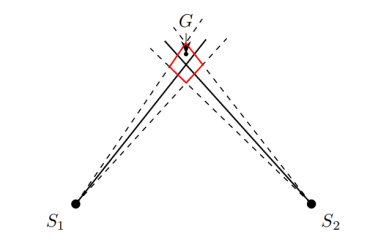
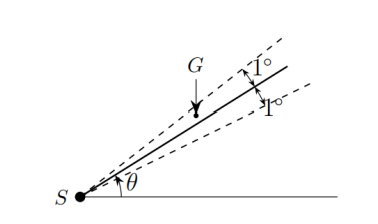
\section{问题重述}

diff --git a/body/main.tex b/body/main.tex
@@ -36,15 +36,41 @@
 
 \subsection{问题背景}
 
+无线电干扰源的定位与清除是无线电频谱管理中的核心任务。传统定位流程通常分为初步监测、区域性排查和精准定位三个阶段：前两个阶段借助固定监测站、移动监测车或无人机等设备完成大范围信号采集与区域圈定；而受环境遮挡、低功率干扰源等因素制约，每个干扰源的最终精准定位仍需技术人员携带便携式测向机徒步排查，通过分析信号场强变化与方向特征逐步锁定位置并予以清除。此精准定位阶段耗时长、人力成本高，且在危险环境中存在安全隐患。
+
+为提升定位与清除效率，某公司拟研发搭载于机器狗的干扰源自动定位清除系统，以代替技术人员在危险环境中开展定位及清除工作。该系统利用测向机检测干扰源场强变化以推断其方位信息（示向度），并结合光学探测仪实现精确定位与激光清除。
+
+题目给定干扰源目标分布区域为半径$1800$米的圆形区域，以圆心为坐标原点，正东方向为$x$轴正向，正北方向为$y$轴正向（单位：米），区域内干扰源个数未知。干扰源具有以下主要特征：每个干扰源占据互不相同的频道（编号$1$至$20$），不同干扰源信号互不影响；按信号覆盖角度范围分为全向干扰源（有效覆盖$360^\circ$）与定向干扰源（定向方向两侧各$90^\circ$）两类，在有效覆盖角度范围内信号均匀辐射，场强仅随距离衰减。测向机的有效接收半径在$1000\sim1500$米之间，示向度测量误差在$[-1^\circ, 1^\circ]$范围内。机器狗沿直线行进，速度为$5$米/秒；移动过程中无法检测，需停下后切换频道并调整天线获取示向度，每次频道切换耗时$1$秒，获取稳定示向度读数耗时$5$秒。当机器狗距干扰源不超过$20$米时可启用光学探测仪精确定位（耗时$3$秒），并启动激光枪清除干扰源（耗时$2$秒）；当距离不超过$5$米且位于有效覆盖角度范围内时，因信号过强无法获得示向度，可直接进行光学精确定位与清除。
+
+\begin{figure}[htbp]
+\centering
+\begin{subfigure}{0.48\textwidth}
+    \centering
+    \includegraphics[width=\textwidth]{../figures/QuestionFile/fig1.png}
+    \caption{干扰源 $G$ 关于检测点 $S$ 的示向度示意图}
+    \label{fig:bearing}
+\end{subfigure}\hfill
+\begin{subfigure}{0.48\textwidth}
+    \centering
+    \includegraphics[width=\textwidth]{../figures/QuestionFile/fig2.png}
+    \caption{交会定位法示意图}
+    \label{fig:cross}
+\end{subfigure}
+\caption{测向机示向度与交会定位法原理图}
+\label{fig:localization}
+\end{figure}
+
 \subsection{问题提出}
 
-根据上述背景及附件所给参数，本文需要建立模型解决以下三个问题：
+根据上述背景及附件所给参数，本文需要建立数学模型解决以下四个问题：
 
-\textbf{问题一}：
+\textbf{问题一}：已知若干个检测点坐标及某干扰源关于这些检测点的示向度，要求给出采用交会定位法计算多边形定位区域直径（即区域内任意两点之间距离的最大值）的算法，并判断以定位区域直径为直径的圆能否覆盖此定位区域。
 
-\textbf{问题二}：
+\textbf{问题二}：已知某全向干扰源在一个检测点处测得的示向度，要求给出第二个检测点的选择策略，以获得关于该干扰源较好的定位效果，并给出第二个检测点的候选区域。
 
-\textbf{问题三}：
+\textbf{问题三}：已知目标区域中的干扰源均为全向干扰源，总数在$10\sim16$个之间但具体个数未知。一只机器狗从原点出发（初始频道为$1$），对干扰源进行自动定位并清除。要求在确保所有干扰源被清除的前提下，使完成任务的时间越短越好。需制定机器狗自动搜索定位及清除的策略并设计算法，通过模拟器进行演练测试，计算被清除干扰源个数比例与平均定位清除时间等统计值以检验策略有效性，并进行三次正式测试。
+
+\textbf{问题四}：已知目标区域中既有全向干扰源又有定向干扰源，总数仍在$10\sim16$个之间，但定向干扰源的个数及定向方向均未知，其余条件与问题三相同。要求在此条件下给出检测与清除的策略及算法，并通过模拟器进行演练测试以检验其有效性，同样进行三次正式测试。
 
 % ==================== 问题分析 ====================
 \section{问题分析}
@@ -63,7 +89,8 @@
 \item[1. ……] ……
 
 \item[2. ……] ……
-\item[] 
+\item[] ……
+\end{description}
 
 % ==================== 符号说明 ====================
 \section{符号说明}
@@ -142,8 +169,6 @@ $ $ &  &   & $ $ &  &   \\
 % ==================== 模型推广 ====================
 \section{模型推广}
 
-\end{itemize}
-
 % ==================== AI工具使用说明 ====================
 \section{AI工具使用说明}
 
@@ -184,69 +209,5 @@ $ $ &  &   & $ $ &  &   \\
 \section{附录：完整求解代码}
 
 本附录给出全部求解与校核代码，即随附电子材料\texttt{vibecoding/}目录下的源文件本身，未作任何改动地直接排入；全部数值结果均可由这些代码在固定随机种子后完全复现。代码按功能分为四组。源码编写时即把不能被代码字体渲染的数学符号（如$\alpha$、$\delta$、$\eta$、$\le$等）以等价 ASCII 记号（alpha、delta、eta、\texttt{<=}等）书写于注释与输出文本中，故不影响任何计算逻辑。
-
-\subsection{公共模块}
-
-\textbf{common.py}：几何底座（坐标系与观测轴、径向求交与理想伸缩量、口径内节点与约束边的选取、面板球心反演）与内层``罚函数$+$多顺序坐标下降''混合多起点求解器，为其余全部脚本所共用。
-
-\lstinputlisting[style=mypython]{../vibecoding/common.py}
-
-\subsection{三问核心求解}
-
-\textbf{q1.py}：问题一（$\alpha=0^{\circ}$、$\beta=90^{\circ}$）的外层焦距一维搜索与嵌套联合优化求解。
-
-\lstinputlisting[style=mypython]{../vibecoding/q1.py}
-
-\textbf{q2.py}：问题二（$\alpha=36.795^{\circ}$、$\beta=78.169^{\circ}$）的求解，并按附件4格式生成\texttt{result.xlsx}。
-
-\lstinputlisting[style=mypython]{../vibecoding/q2.py}
-
-\textbf{q3.py}：问题三的射线追踪——面板球心反演、矢量反射、接收平面求交与投影面积加权接收比（含基准球面对照与理想抛物面自洽检验）。
-
-\lstinputlisting[style=mypython]{../vibecoding/q3.py}
-
-\subsection{方案比较与焦距实验}
-
-\textbf{schemes\_compare.py}：三种拟合优度方案（节点/面板中心/整面板积分）的统一实现与公平比较。
-
-\lstinputlisting[style=mypython]{../vibecoding/schemes_compare.py}
-
-\textbf{p\_sensitivity.py}：焦距$p$双指标（残差、接收比）敏感性扫描，表~\ref{tab:sens}与图~\ref{fig:p_sensitivity}的数据来源。
-
-\lstinputlisting[style=mypython]{../vibecoding/p_sensitivity.py}
-
-\textbf{exp2\_p\_curve.py}：三方案各自真实目标随焦距$p$的独立求解，表~\ref{tab:p_obj_compare}的数据来源。
-
-\lstinputlisting[style=mypython]{../vibecoding/exp2_p_curve.py}
-
-\textbf{exp1\_global\_opt.py}：内层全局最优性对照（$30$随机种子坐标下降与SLSQP双起点），表~\ref{tab:global_opt}的数据来源。
-
-\lstinputlisting[style=mypython]{../vibecoding/exp1_global_opt.py}
-
-\textbf{inner\_solver\_compare.py}：内层求解器对照（罚函数/坐标下降/混合多起点），表~\ref{tab:inner_solver}的数据来源。
-
-\lstinputlisting[style=mypython]{../vibecoding/inner_solver_compare.py}
-
-\textbf{pareto\_verify.py}：扫描点支配关系判别与帕累托前沿提取（式~\eqref{eq:pareto}）。
-
-\lstinputlisting[style=mypython]{../vibecoding/pareto_verify.py}
-
-\subsection{结果校核与论文数据输出}
-
-\textbf{verify\_result.py}：对\texttt{result.xlsx}的六项独立校核（表~\ref{tab:verify}）。
-
-\lstinputlisting[style=mypython]{../vibecoding/verify_result.py}
-
-\textbf{paper\_data.py}：径向求交中间量（表~\ref{tab:radial_demo}）与伸缩量统计的生成。
-
-\lstinputlisting[style=mypython]{../vibecoding/paper_data.py}
-
-\textbf{paper\_data2.py}：口径覆盖率与投影面积统计（第~\ref{sec:q3_verify}节）的生成。
-
-\lstinputlisting[style=mypython]{../vibecoding/paper_data2.py}
-
-\textbf{make\_figures.py}：正文全部插图（\texttt{figures/}目录）的生成。
-
-\lstinputlisting[style=mypython]{../vibecoding/make_figures.py}
 
 \end{document}
